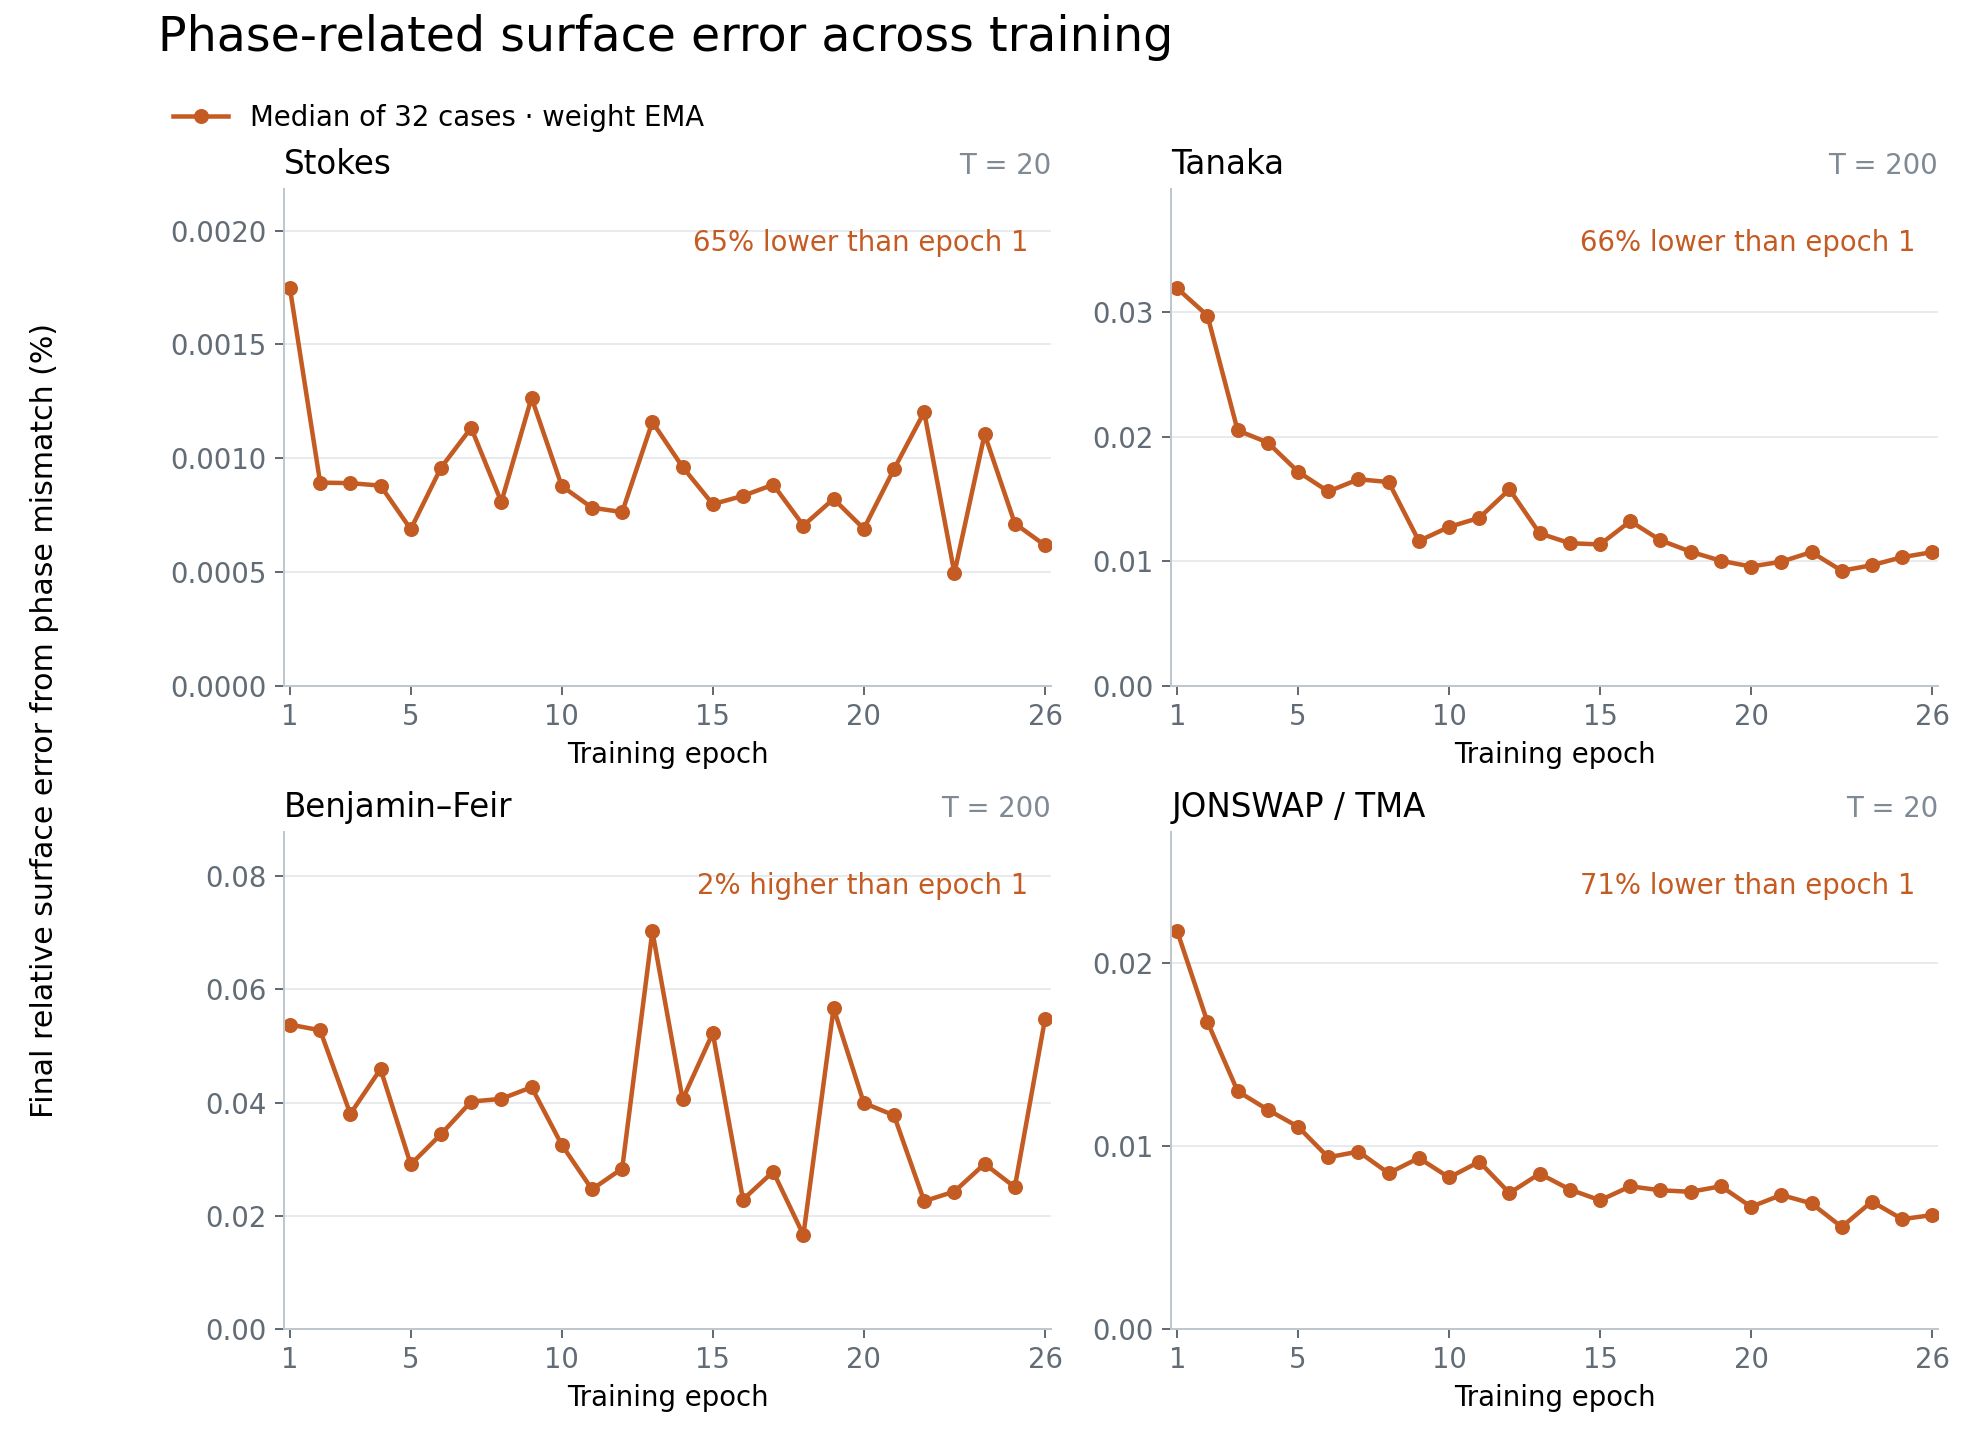
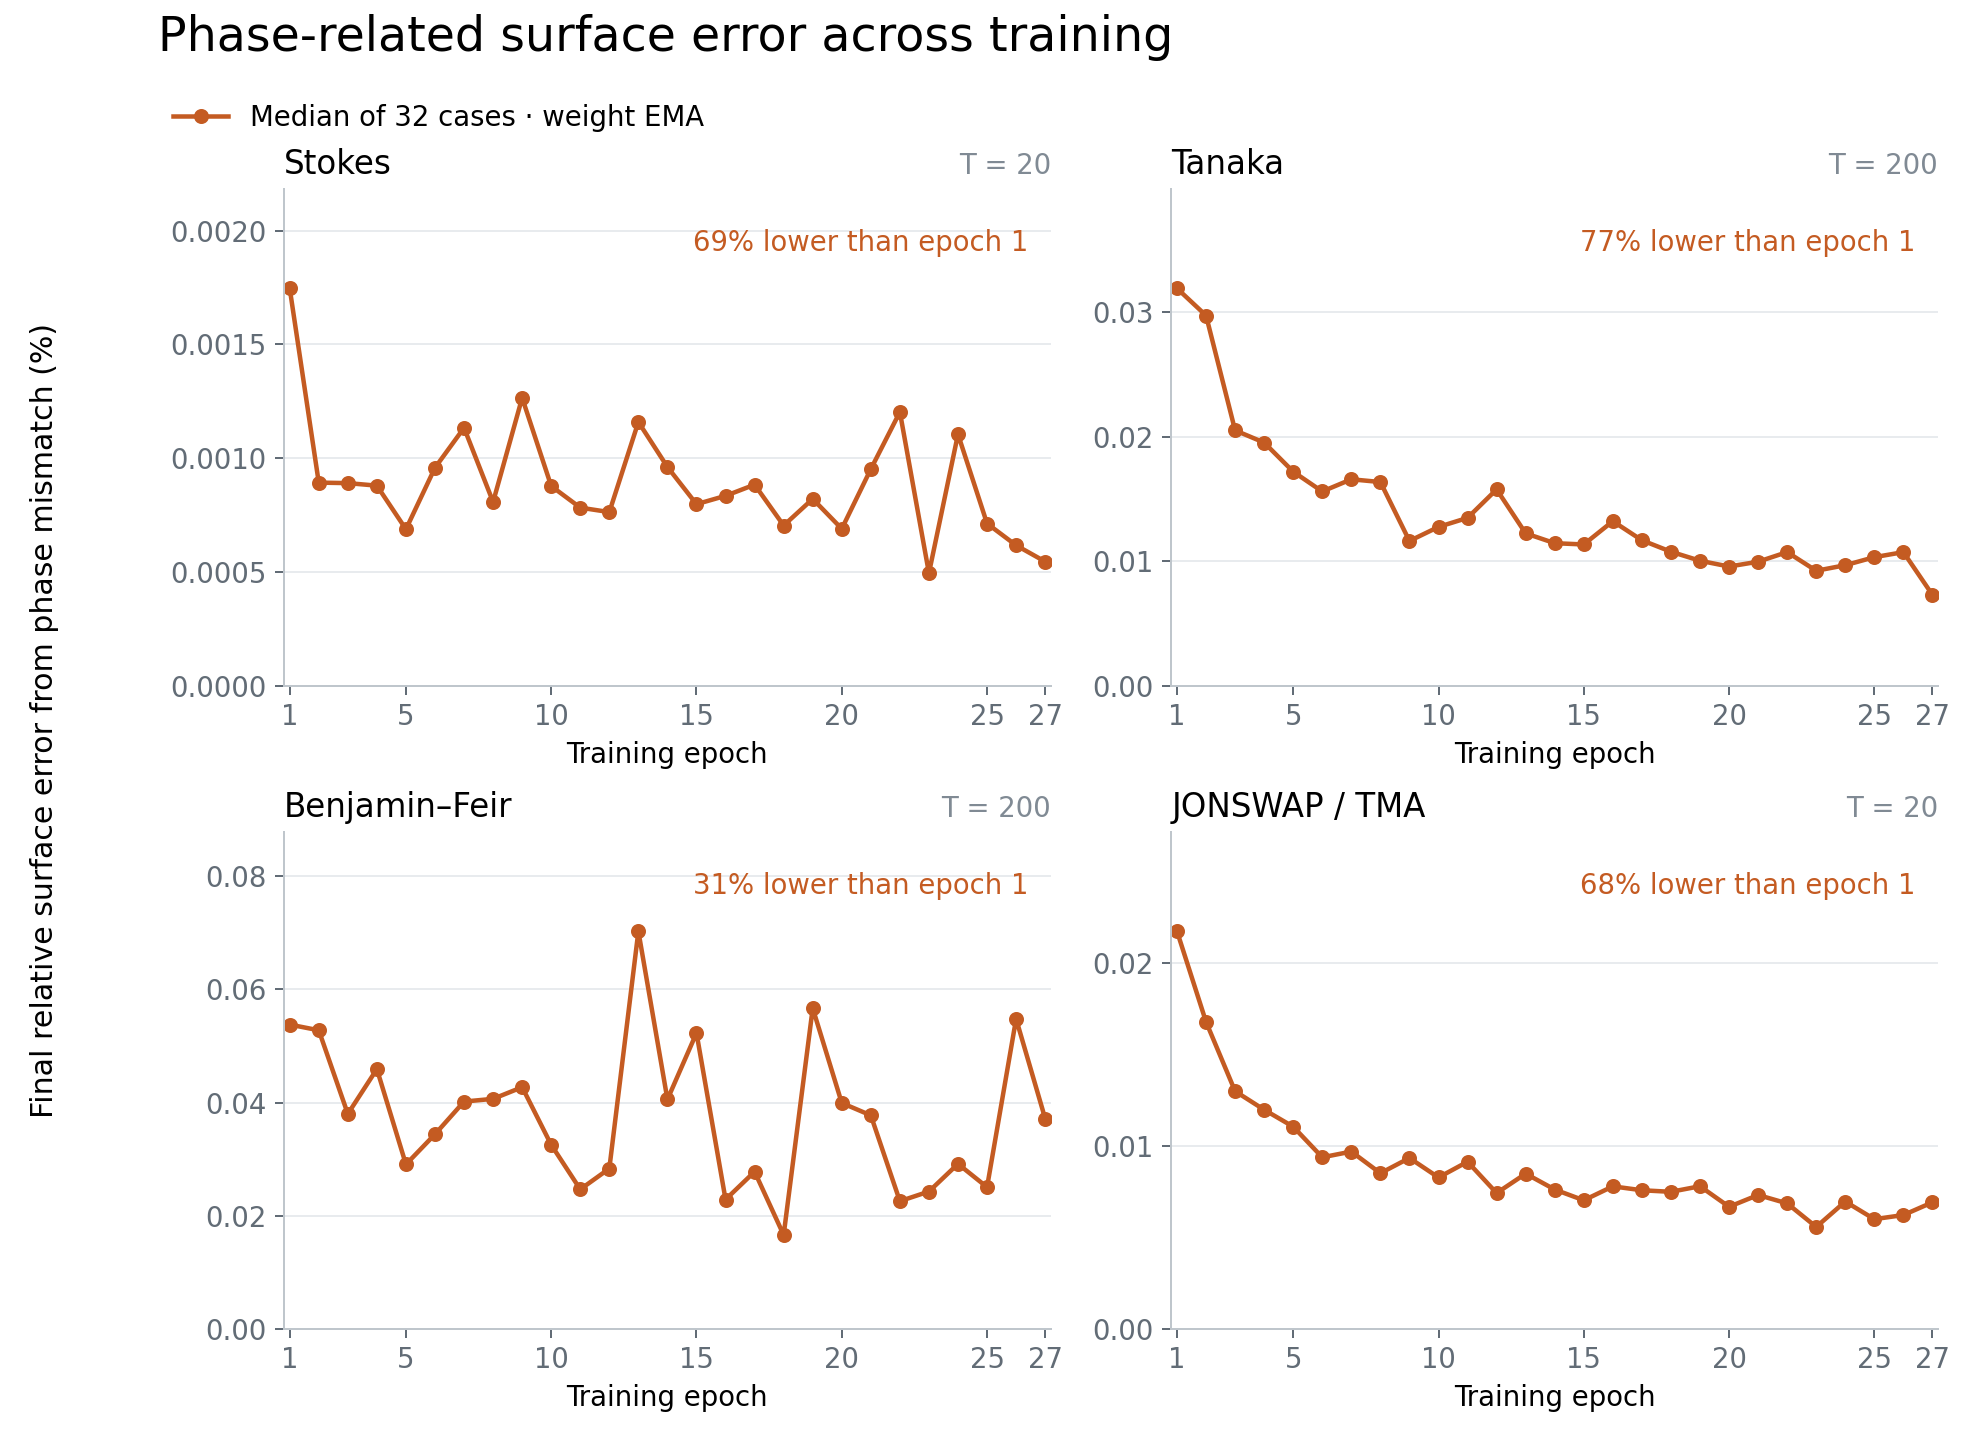
Record epoch 27 EMA evaluation and refresh phase history

diff --git a/paper-plots/plot_phase_diagnostics.py b/paper-plots/plot_phase_diagnostics.py
@@ -75,7 +75,7 @@ def main() -> None:
         "pdf.fonttype": 42, "ps.fonttype": 42,
     })
     if args.phase_training:
-        epochs = np.arange(1, 27)
+        epochs = np.arange(1, 28)
         evaluations = [
             ROOT / "outputs/c27_phase1_lr8_momentum_half_ema995_grad05_adam05_b2099_batch16_hd04_band128_nested1_gamma32_full_20261012/eval_fast_weight_ema_nestedfused_contextbatch",
             *(ROOT / f"outputs/c27_nested_b16_ema_low_lr_continue_20261014/eval_epoch{epoch}_weight_ema" for epoch in (2, 3)),

diff --git a/experiments/experiments-2026-10-16.md b/experiments/experiments-2026-10-16.md
@@ -1,6 +1,6 @@
 # Experiments — 2026-10-16
 
-Epoch 23 remains the aggregate rollout best through epoch 26 under the approved low-LR continuation. Figure 12c uses epoch-23 weight EMA and unchanged measured Ada timings; Figure 22 includes epochs 1–26. Epoch 26's pooled terminal surface error is 47.2% worse than 23, with the largest regression in Benjamin–Feir. Epoch 27 resumed automatically. Best validation is 25, with patience 1/5; the longer-run experiment remains ongoing.
+Epoch 23 remains the aggregate rollout best through epoch 27 under the approved low-LR continuation. Figure 12c uses epoch-23 weight EMA and unchanged measured Ada timings; Figure 22 includes epochs 1–27. Epoch 27 recovers from 26 but pooled terminal surface error remains 17.2% worse than 23; Stokes and Benjamin–Feir regress while Tanaka and JONSWAP improve by geometric mean. Epoch 28 resumed automatically. Best validation is 27, with patience 0/5; the longer-run experiment remains ongoing.
 
 | Date | Time | File / Variant | Motivation | What Tried / Evidence | Correctness | Timing | Decision |
 | --- | --- | --- | --- | --- | --- | --- | --- |
@@ -13,3 +13,4 @@ Epoch 23 remains the aggregate rollout best through epoch 26 under the approved 
 | 2026-10-16 | 14:44 | Same continuation: epoch 24 primary EMA; Figures 12c/22 | Refresh requested plots and test whether the latest complete EMA evaluation improves the selected rollout checkpoint. | All128 rollouts complete. Pooled eta/xi GM24/23=1.226908/1.263586 (55/53 wins); eta/M2=.214531 (98 wins),eta/M3=.904028 (71). Family eta24/23 S/T/BF/J=1.552802/.955209/1.558001/.980540. Eta median/p95 percent: .001111796/.011584164, .012531554/.203851395, .031707002/.081934524, .007977855/.065485282. Pooled eta GM/median/p95=.007887513/.011292078/.081373334%; xi GM=.006274294%. Whole-trajectory eta24/23=1.219871; exact phase=1.276248,amplitude=1.054001. Validation selection improves1.3905% to1.251860710e-5, best24,patience0/5; again validation does not rank the rollout regression. | Independent CPU audit verifies matching128 IDs/times/depths against23/M2/M3, finite fields, valid references, positive water depth and exact terminal eta norms. Root independently reproduces terminal/trajectory errors and direct Fourier phase/amplitude identity. Boundary state audit confirms counters17695080 and all52 EMA arrays/40384 scalars matching latest/export/best; gradientEMA.5,weightEMA.995,LR8e-6 unchanged. Figure12c retains23 and existing measured B1 timings. Figure22 extends through24; phase medians .001105276/.009686092/.029153970/.006949670%. | Training02:04; validation/export14:37; EMA evaluation complete14:40, then automatic epoch25 resume. CPU audit/render14:42 onward; no new GPU timing. | MERGE plot refresh; retain23 as rollout best. Continue approved60-epoch ceiling and validation-patience-five rule unchanged. |
 | 2026-10-16 | 16:55 | Same continuation: epoch 25 primary EMA; Figure 22 | Test whether unchanged low-LR continuation improves the selected rollout checkpoint and refresh the requested phase-history plot. | All128 rollouts complete. Pooled eta/xi GM25/23=1.153271/1.177214 (61/62 wins),25/24=.939982/.931645 (69/76),25/1=.431401/.428719 (111/109). Eta/M2=.201656 (100 wins),eta/M3=.849770 (67). Family eta25/23 S/T/BF/J=1.437057/1.143899/1.107907/.971316. Eta median/p95 percent: .000718240/.017180106, .012034970/.144168675, .027112303/.078011446, .007838281/.066413457. Pooled eta GM/median/p95=.007414120/.010159466/.078245302%; xi GM=.005845415%. Whole-trajectory eta25/23=1.096161; exact phase=1.210126,amplitude=1.035683. Selection validation improves1.0934% to1.238173262e-5, best25,patience0/5. | Independent CPU audit verifies matching128 IDs/times/depths against23/24/M2/M3, finite fields, valid references, positive water depth and exact saved terminal eta/xi/Gxi norms. Root independently reproduces terminal/trajectory errors and direct Fourier phase/amplitude identity; direct saved norms use the evaluator's documented denominator epsilon. Checkpoint audit confirms counters18432375 and all52 EMA arrays/40384 scalars matching latest/export/best. LR8e-6,gradientEMA.5,weightEMA.995 unchanged. Figure12c retains23 and unchanged measured B1 timings. Figure22 extends through25; phase medians .000713302/.010332284/.025037043/.005988000%, respectively59.1/67.6/53.4/72.4% below1. | Training02:04, finished16:45; validation/export16:49; EMA evaluation complete16:52, then automatic epoch26 resume. CPU audits/render16:52 onward; no new GPU timing. | MERGE phase-plot refresh; retain23 as rollout best. Continue approved60-epoch ceiling and validation-patience-five rule unchanged; sustained60–120-epoch transfer remains unproven. |
 | 2026-10-16 | 19:06 | Same continuation: epoch 26 primary EMA; Figure 22 | Test whether the next complete EMA evaluation improves the selected rollout checkpoint and keep the phase-history plot current. | All128 rollouts complete. Pooled eta/xi GM26/23=1.471795/1.496890 (46/43 wins),26/25=1.276192/1.271553 (51/48),26/1=.550550/.545138 (93/92). Eta/M2=.257351 (99 wins),eta/M3=1.084469 (66). Family eta26/23 S/T/BF/J=1.375488/1.188869/2.798469/1.025365: every family regresses, especially BF. Eta median/p95 percent: .000626710/.006486397, .012477753/.300807679, .058985172/.153052832, .008117820/.065215893. Pooled eta GM/median/p95=.009461841/.012388087/.145475454%; xi GM=.007432756%. Whole-trajectory eta26/23=1.405592; exact phase=1.513427,amplitude=1.259175. Selection validation rises.9533% to1.249976594e-5; best25,patience1/5. | Independent CPU checks confirm matching128 IDs/times/depths, finite fields, valid references, positive water depth, zero configured eta-failure flags and exact terminal eta/xi/Gxi norms. Root independently reproduces terminal/trajectory errors and direct Fourier phase/amplitude identity. Full-state counters19169670 and all52 primary-EMA arrays/40384 scalars match latest/export; gradient EMA retained. LR8e-6,gradientEMA.5,weightEMA.995 unchanged. Figure12c retains23 with unchanged measured B1 timings. Figure22 includes26; phase medians .000617493/.010735295/.054777512/.006212527%. BF median phase error is1.9% above epoch1; the other families remain64.6/66.3/71.4% below1. | Training02:06, finished18:58; validation/export19:01; EMA evaluation complete19:05, then automatic epoch27 resume. CPU audits/render19:02 onward; no new GPU timing. | MERGE phase-plot refresh; retain23 as rollout best. Continue approved60-epoch ceiling and validation-patience-five rule unchanged; sustained60–120-epoch transfer remains unproven. |
+| 2026-10-16 | 21:20 | Same continuation: epoch 27 primary EMA; Figure 22 | Check whether continued low-LR training improves the selected rollout checkpoint and refresh the requested phase-history plot. | All128 EMA rollouts complete. Pooled eta/xi GM27/23=1.171503/1.208933 (60/60 wins),27/26=.795969/.807630 (89/90),27/1=.438221/.440270 (106/105). Eta/M2=.204843 (101 wins),eta/M3=.863203 (71). Family eta27/23 S/T/BF/J=1.264609/.887687/1.724910/.972726: Tanaka and JONSWAP improve, Stokes and BF regress. Eta median/p95 percent: .000564444/.013927895, .009455169/.137743849, .040424819/.123981899, .008691970/.061100074. Pooled eta GM/median/p95=.007531328/.010360481/.115839151%; xi GM=.006002913%. Whole-trajectory eta27/23=1.168618; exact phase=1.209165,amplitude=1.027187. Selection validation improves1.7458% over25 to1.216556705e-5, best27,patience0/5. | Independent CPU audit verifies matching128 IDs/times/depths across23/26/E1/M2/M3, finite fields, valid references, positive water depth, no configured failure flags and exact terminal eta/xi/Gxi norms. Root reproduces terminal/trajectory errors and the direct Fourier phase/amplitude identity. All six counters19906965; all52 EMA arrays/40384 scalars exactly match latest/export/best shadows; gradient EMA remains finite. LR8e-6,gradientEMA.5,weightEMA.995 unchanged. Figure12c retains23 with unchanged measured B1 timings. Figure22 includes27; phase medians .000545994/.007307320/.037167503/.006907978%, respectively68.7/77.1/30.9/68.2% below1. | Training02:06, finished21:11; validation/export21:14; EMA evaluation complete21:18, then automatic epoch28 resume. CPU audits/render21:15 onward; no new GPU timing. | MERGE phase-plot refresh; retain23 as rollout best. Continue approved60-epoch ceiling and validation-patience-five rule unchanged; sustained60–120-epoch transfer remains unproven. |

diff --git a/paper-plots/README.md b/paper-plots/README.md
@@ -435,7 +435,7 @@ UV_CACHE_DIR=/tmp/codex-uv-cache uv run --no-sync paper-plots/plot_neural_advant
 
 Figure 12c compares the Ada classical solver, epoch-23 EMA candidate, and older
 rollout-supervised network. Epoch 23 is the best overall evaluated checkpoint
-through epoch 26 by pooled geometric-mean terminal surface error across the 128 cases;
+through epoch 27 by pooled geometric-mean terminal surface error across the 128 cases;
 each panel still displays the fixed timed case, not the family median. Runtime
 measurements are unchanged for the same inference path. It omits the RMS/context
 and spectral-DNO models and historical timing annotations:
@@ -760,17 +760,18 @@ OPENBLAS_NUM_THREADS=1 OMP_NUM_THREADS=1 UV_CACHE_DIR=/tmp/dno-uv-cache \
 [PNG](figures/22-phase-error-vs-training.png) / [PDF](figures/22-phase-error-vs-training.pdf)
 
 Terminal Fourier-phase error for primary weight-EMA checkpoints at every epoch
-from 1 through 26, using the same 32 cases per family. The y axis uses Figure 20's
+from 1 through 27, using the same 32 cases per family. The y axis uses Figure 20's
 relative-error magnitude, not the percentage of total squared error. Each point
 is the median of `100*sqrt(phase_energy/reference_energy)` at the final rollout
-time. All twenty-six measurements are shown; the curves are not monotonic.
-Epoch-26 median errors are 0.000617493%, 0.0107353%, 0.0547775% and
-0.00621253% for Stokes, Tanaka, Benjamin–Feir and JONSWAP/TMA. Stokes,
-Tanaka and JONSWAP/TMA are 64.6%, 66.3% and 71.4% below epoch 1;
-Benjamin–Feir is 1.9% higher. Against epoch 23, pooled geometric-mean terminal
-surface error rises 47.2% and phase-related error rises 51.3%. Figure 12c therefore
+time. All twenty-seven measurements are shown; the curves are not monotonic.
+Epoch-27 median errors are 0.000545994%, 0.00730732%, 0.0371675% and
+0.00690798% for Stokes, Tanaka, Benjamin–Feir and JONSWAP/TMA, respectively
+68.7%, 77.1%, 30.9% and 68.2% below epoch 1. Against epoch 23, pooled
+geometric-mean terminal surface error rises 17.2% and phase-related error rises
+20.9%, despite improving over epoch 26. Figure 12c therefore
 retains epoch 23, the best checkpoint selected using all 128 cases rather than
-the four plotted cases. Epoch 26's validation loss is 0.95% higher than epoch 25's.
+the four plotted cases. Epoch 27 sets a new validation best, 1.75% below epoch 25;
+validation loss does not select the best rollout checkpoint.
 
 ```sh
 OPENBLAS_NUM_THREADS=1 OMP_NUM_THREADS=1 UV_CACHE_DIR=/tmp/dno-uv-cache \

diff --git a/EXPERIMENTS.md b/EXPERIMENTS.md
@@ -33,11 +33,11 @@ could not be recovered at all are in
 
 ## Dated logs
 
-98 files, 1624 rows.
+98 files, 1625 rows.
 
 | Date | Rows | File | Size |
 | --- | --- | --- | --- |
-| 2026-10-16 | 9 | [`experiments/experiments-2026-10-16.md`](experiments/experiments-2026-10-16.md) | 17 KB |
+| 2026-10-16 | 10 | [`experiments/experiments-2026-10-16.md`](experiments/experiments-2026-10-16.md) | 19 KB |
 | 2026-10-15 | 37 | [`experiments/experiments-2026-10-15.md`](experiments/experiments-2026-10-15.md) | 64 KB |
 | 2026-10-14 | 16 | [`experiments/experiments-2026-10-14.md`](experiments/experiments-2026-10-14.md) | 38 KB |
 | 2026-10-13 | 8 | [`experiments/experiments-2026-10-13.md`](experiments/experiments-2026-10-13.md) | 14 KB |
